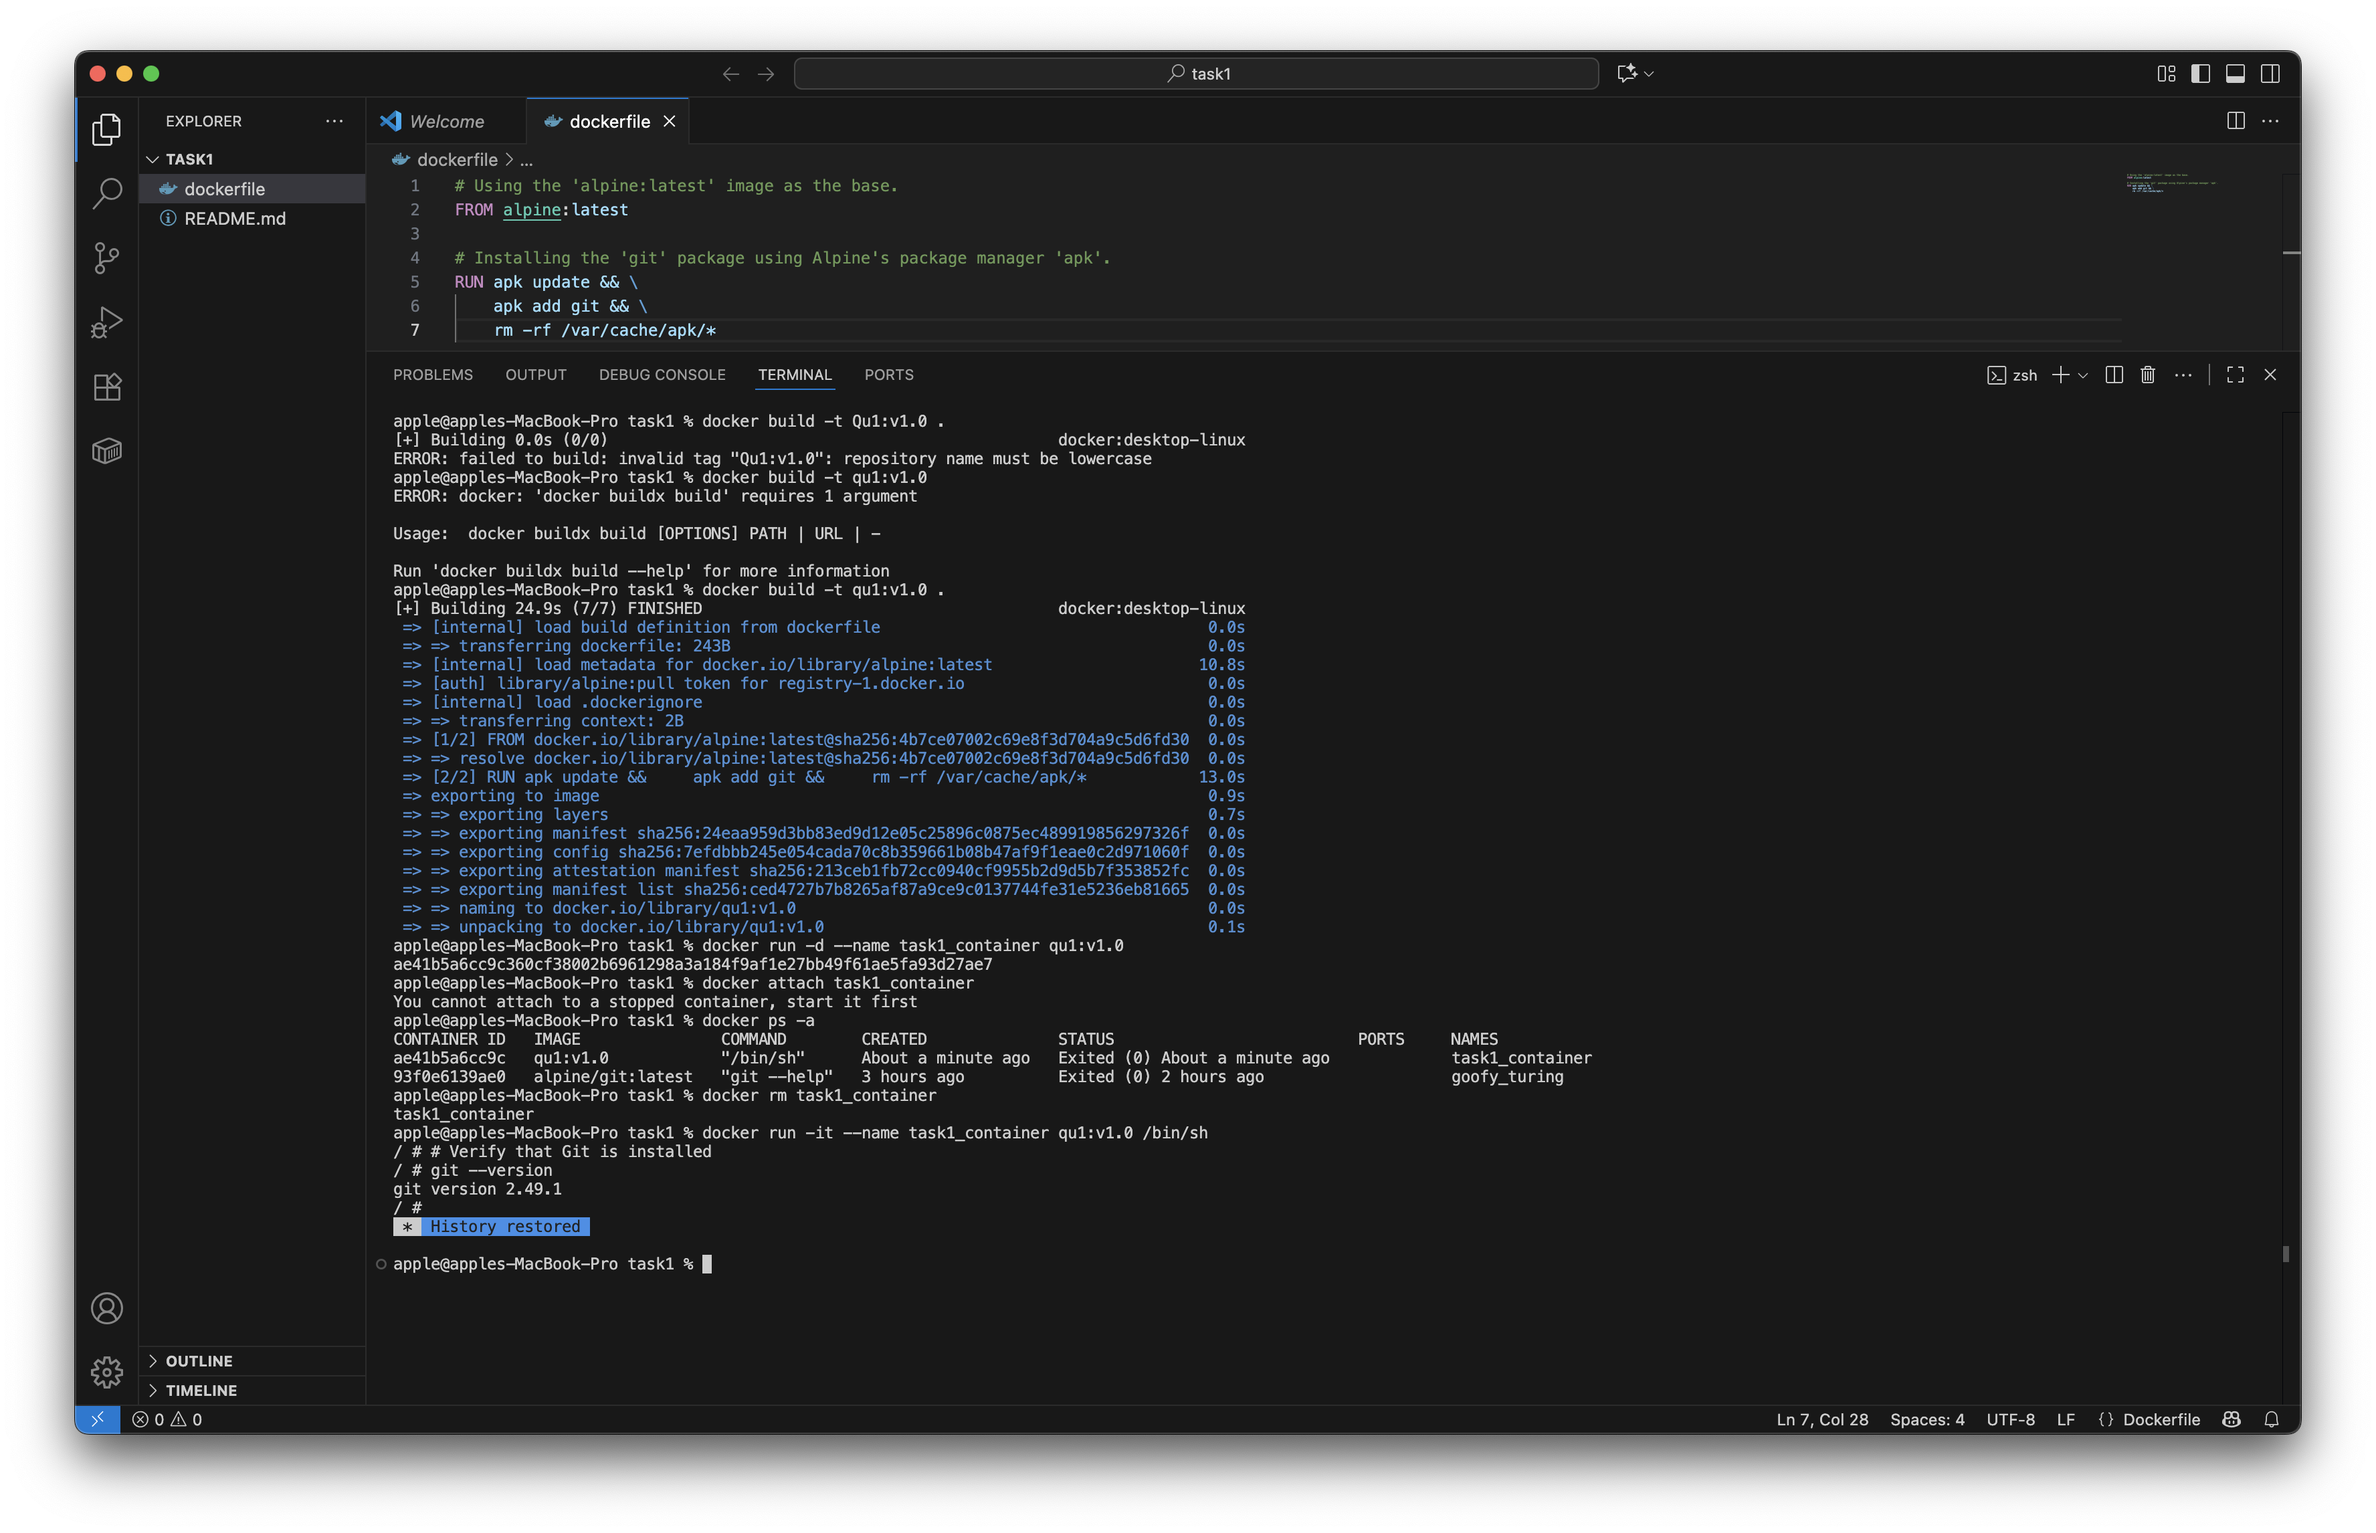
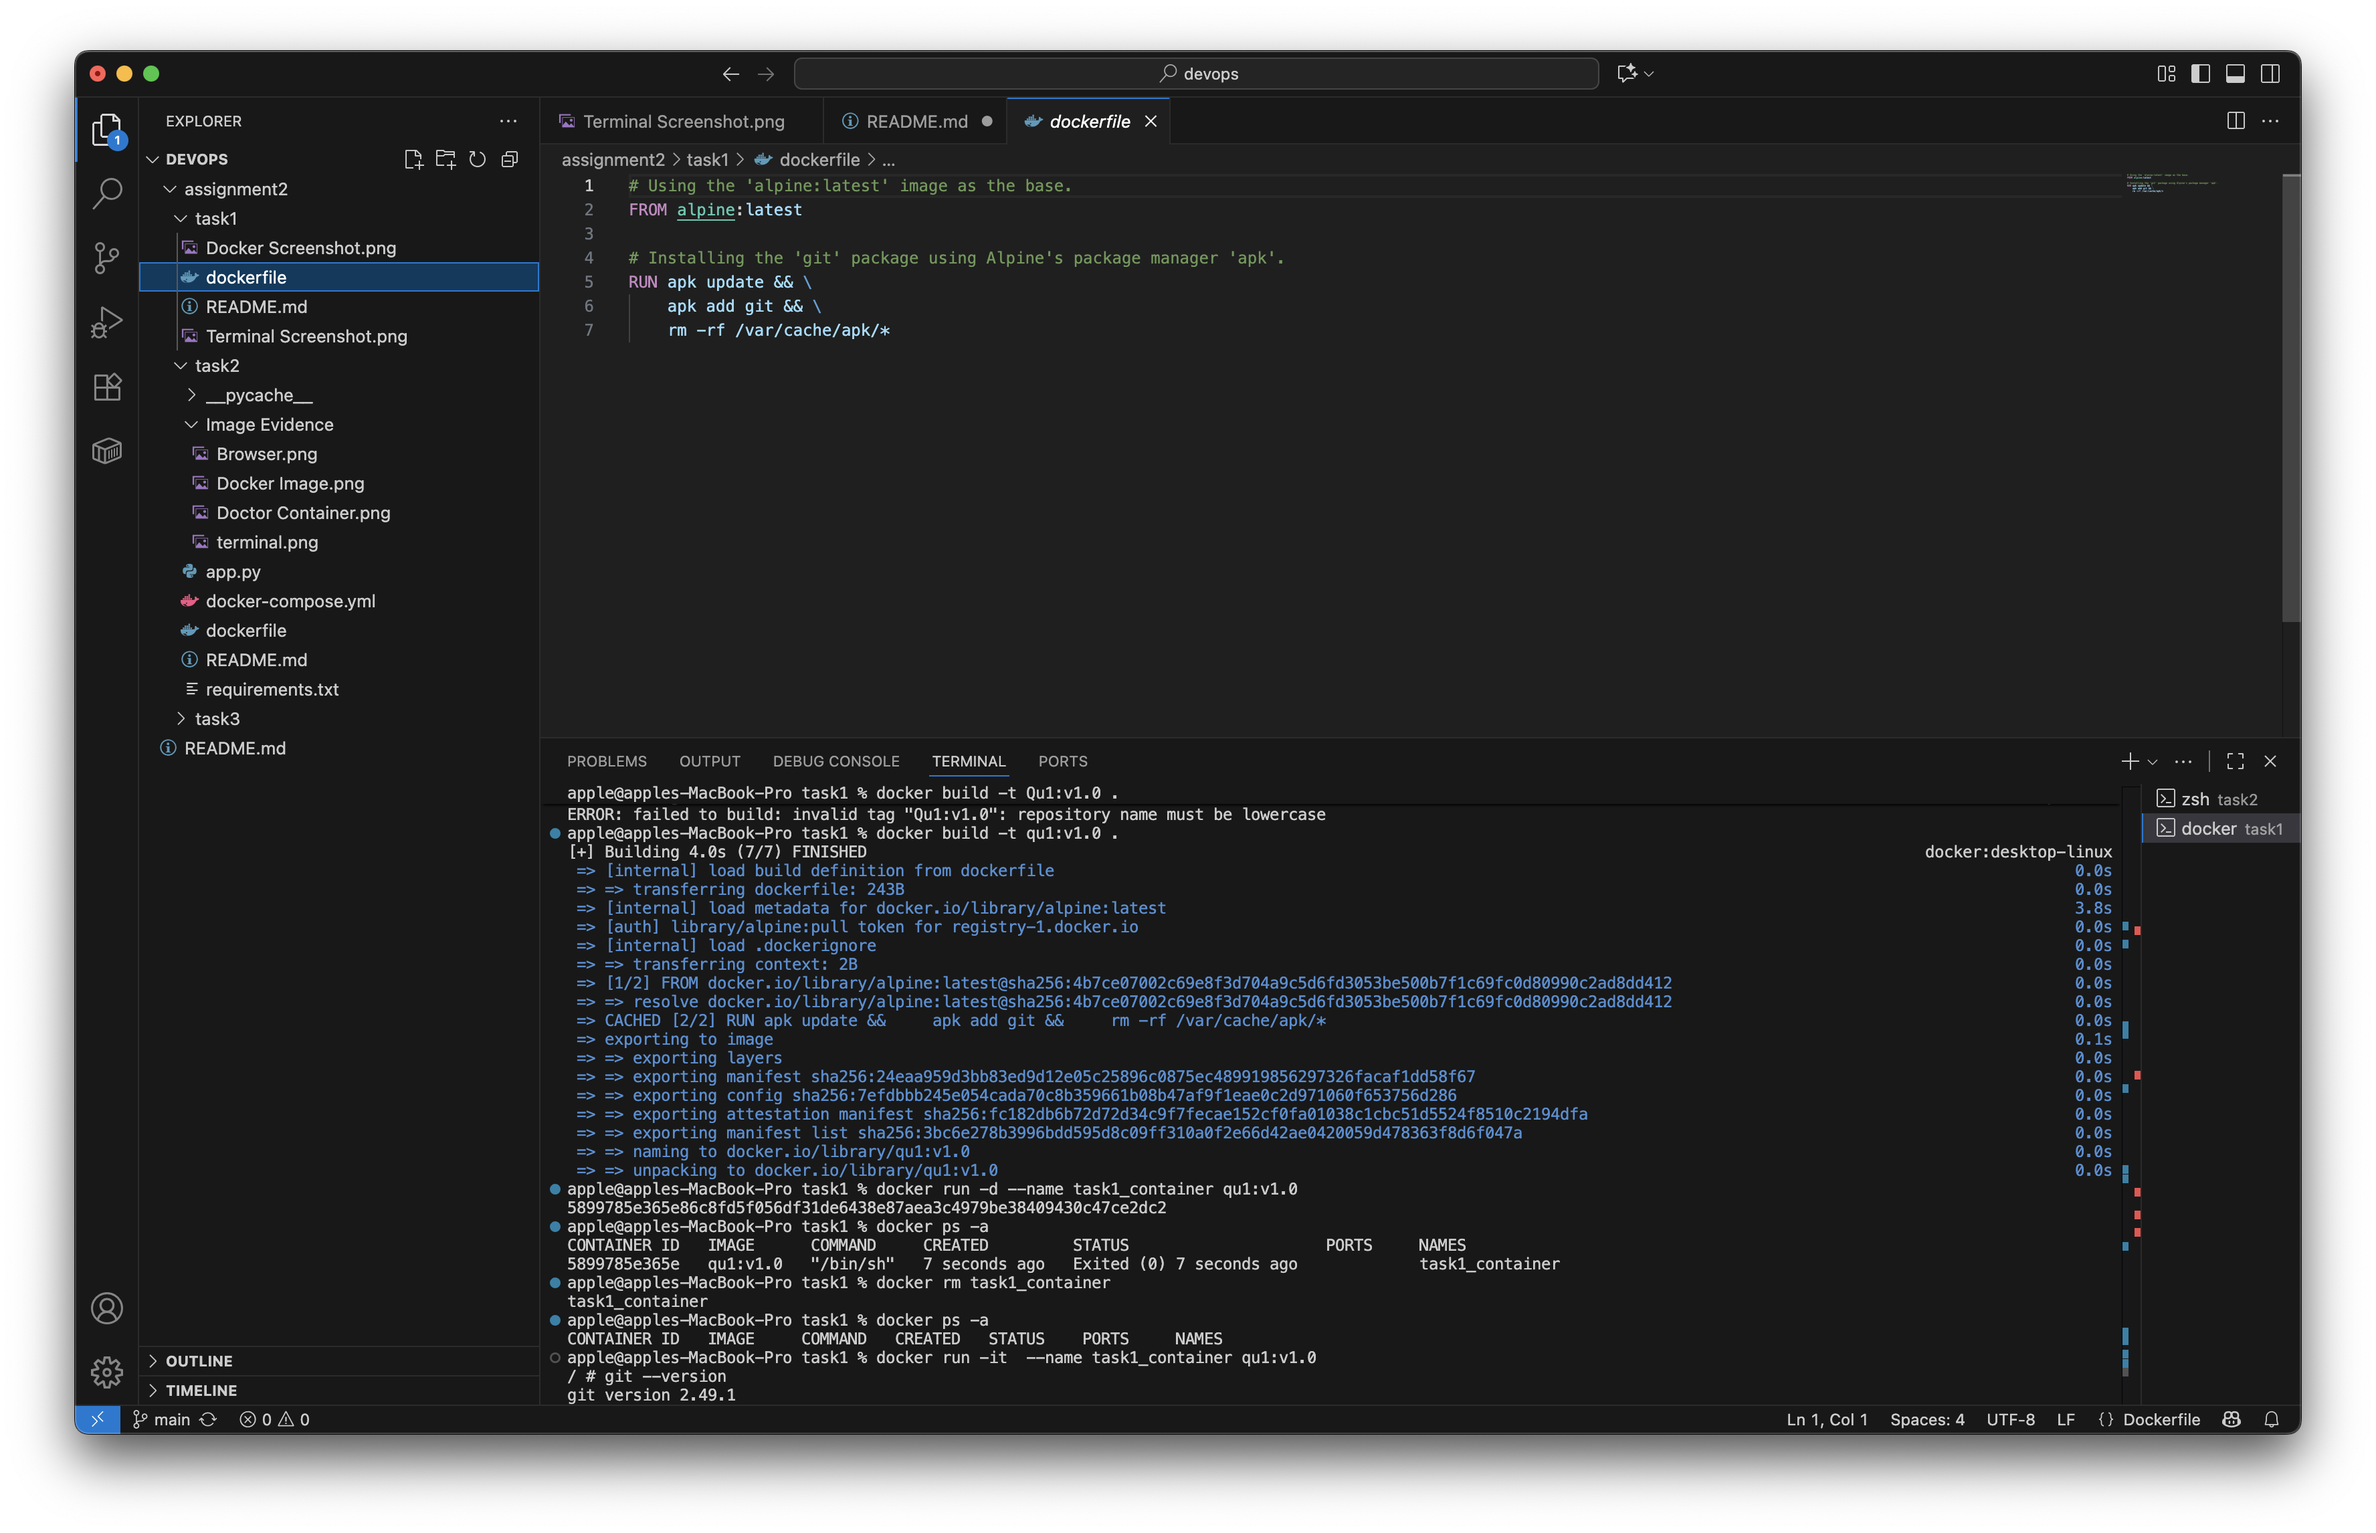
task 1 read me more detailed

diff --git a/assignment2/task1/README.md b/assignment2/task1/README.md
@@ -40,14 +40,29 @@ Created a detached container:
 ```bash
 docker run -d --name task1_container qu1:v1.0
 ```
+
+### 4-Checking Container Status
+```bash
+docker ps -a
+```
 The container stopped immediately because there was no foreground process running.
 
-### 4-Attaching and Verifying Git
-To interact with the container, ran it in interactive mode:
+### 5-Removing the stopped container
 ```bash
-docker run -it --name task1_container qu1:v1.0 /bin/sh
+docker rm task1_container
 ```
 
+### 6-Verifying no containers exist
+```bash
+docker ps -a
+```
+
+### 7-Running container in interactive mode
+```bash
+docker run -it --name task1_container qu1:v1.0
+```
+
+### 8-Attaching and Verifying Git
 Verified Git installation:
 ```bash
 git --version
